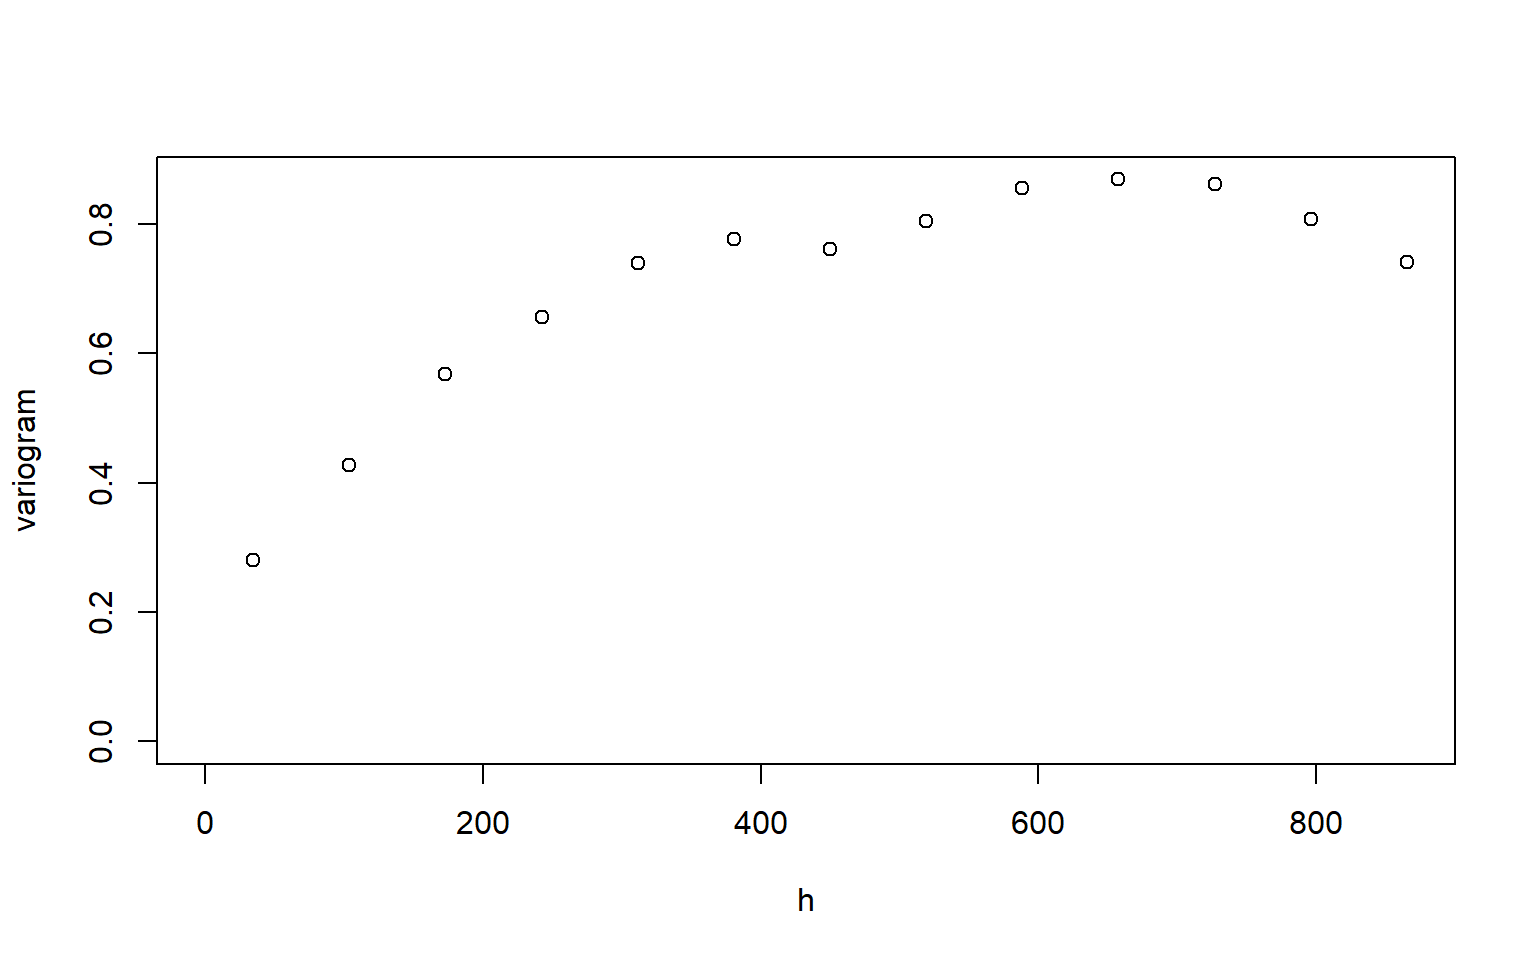
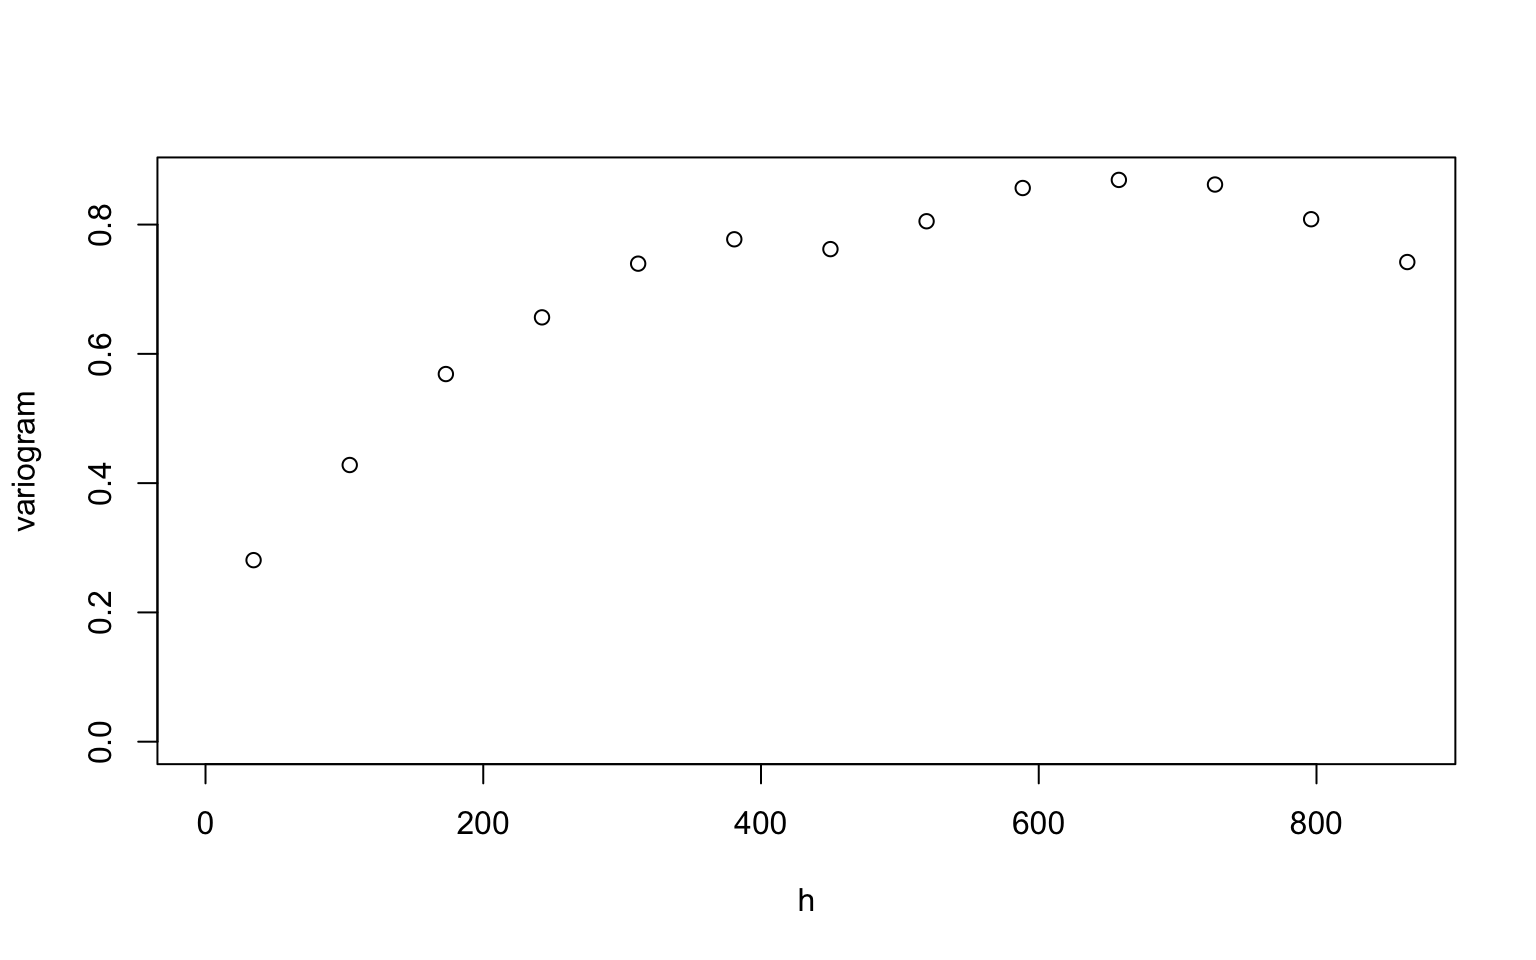
Update

diff --git a/Example1.html b/Example1.html
@@ -13,7 +13,7 @@
 
 <title>Geostatistical Data Example: Yearly Precipitation Anomaly Data</title>
 
-<script src="site_libs/header-attrs-2.19/header-attrs.js"></script>
+<script src="site_libs/header-attrs-2.26/header-attrs.js"></script>
 <script src="site_libs/jquery-3.6.0/jquery-3.6.0.min.js"></script>
 <meta name="viewport" content="width=device-width, initial-scale=1" />
 <link href="site_libs/bootstrap-3.3.5/css/cosmo.min.css" rel="stylesheet" />
@@ -246,6 +246,9 @@ $(document).ready(function () {
   <a href="index.html">Home</a>
 </li>
 <li>
+  <a href="Week1.html">Week 1</a>
+</li>
+<li>
   <a href="Week2.html">Week 2</a>
 </li>
 <li>
@@ -280,6 +283,9 @@ $(document).ready(function () {
 </li>
 <li>
   <a href="Extra1.html">Extra 1</a>
+</li>
+<li>
+  <a href="Extra2.html">Extra 2</a>
 </li>
       </ul>
       <ul class="nav navbar-nav navbar-right">
@@ -476,7 +482,7 @@ funciton to minimize, that is, the message is the same as the message
 from the <em>optim</em> function)</p>
 <pre class="r"><code>m1$info.minimisation.function</code></pre>
 <pre><code>## $par
-## [1] 152.6097182   0.1641731
+## [1] 152.6097186   0.1641731
 ## 
 ## $value
 ## [1] 644.579
@@ -537,7 +543,7 @@ model</em>.</p>
 <li>The <span class="math inline">\(\mu\)</span> part
 <ul>
 <li>in the summary table, it is denoted as *. In our example, <span
-class="math inline">\(\hat \mu = -0.2176\)</span>.</li>
+class="math inline">\(\hat{\mu} = -0.2176\)</span>.</li>
 <li>It can also obtained by <em>m1$beta</em></li>
 <li>The estimated asymptotic variance (matrix) is
 <em>m1$beta.var</em></li>
@@ -574,7 +580,7 @@ m1$sigmasq
 m1$phi
 # nugget
 m1$nugget</code></pre>
-<pre><code>## [1]   0.7136275 152.6097182
+<pre><code>## [1]   0.7136275 152.6097186
 ## [1] 0.7136275
 ## [1] 152.6097
 ## [1] 0.1171584</code></pre>

diff --git a/Week1.html b/Week1.html
@@ -356,10 +356,16 @@ only the columns that fit on one screen.”</p>
 </div>
 <div id="section" class="section level1" number="2">
 <h1><span class="header-section-number">2</span> 3.1.3</h1>
-<p>From the book: * it’s worth stating what they have in common: + 1 The
-first argument is always a data frame. + 2 The subsequent arguments
-typically describe which columns to operate on using the variable names
-(without quotes). + 3 The output is always a new data frame.</p>
+<p>From the book:</p>
+<ul>
+<li>it’s worth stating what they have in common:
+<ul>
+<li>1 The first argument is always a data frame.</li>
+<li>2 The subsequent arguments typically describe which columns to
+operate on using the variable names (without quotes).</li>
+<li>3 The output is always a new data frame.</li>
+</ul></li>
+</ul>
 <pre class="r"><code>flights |&gt;
   filter(dest == &quot;IAH&quot;) |&gt; 
   group_by(year, month, day) |&gt; 
